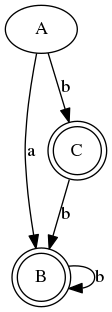
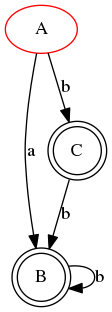
epsilon-determinisation

Changed region(s): [[0.0268, 0.0, 0.6161, 0.1731], [0.5357, 0.0288, 0.6964, 0.1442]]

diff --git a/Automate.py b/Automate.py
@@ -6,15 +6,19 @@ import graphviz
 class Automate:
 
 	def __init__(self, listeAlphabets, listeTransitions):
-		self.listeAlphabets = listeAlphabets
 		self.listeTransitions = listeTransitions
+		self.listeAlphabets = listeAlphabets
+		self.AFDListeAlphabets = []
+		self.AFMListeAlphabets = []
 		self.etatInitial = None
+		self.AFDEtatInitial = None
+		self.AFMEtatInitial =None
 		self.handlers = {}
 		self.AFDHandlers = {}
-		self.AFDEtatInitial = None
-		self.AFDListeAlphabets = []
+		self.AFMHandlers = {}
 		self.etatsFinaux = []
 		self.AFDEtatsFinaux = []
+		self.AFMEtatsFinaux = []
 	
 	def ajouterTransition(self, fromEtat, transition, toEtats):
 		if transition not in self.listeTransitions and fromEtat not in self.listeAlphabets:
@@ -142,7 +146,7 @@ class Automate:
 					if ss_elt in self.etatsFinaux:
 						self.AFDEtatsFinaux.append(chr(65+i))
 					elif ss_elt == self.etatInitial:
-						self.AFDEtatFinal = ss_elt
+						self.AFDEtatInitial = str(chr(65+i))
 				i = i+1
 			print("Le nouveau alphabet de l'AFD: {} ".format(self.AFDListeAlphabets))
 			print("le dicNewAlphabets de l'AFD : {} ".format(dictNewAlphabets))
@@ -164,8 +168,8 @@ class Automate:
 		for a in self.AFDListeAlphabets:
 			if a in self.AFDEtatsFinaux:
 				graphAFD.node(a, label=a, shape="doublecircle")
-			elif a == self.etatInitial:
-				graph.node(a, label=a, color="red")
+			elif a == self.AFDEtatInitial:
+				graphAFD.node(a, label=a, color="red")
 			else:
 				graphAFD.node(a)
 		for cle, valeur in self.AFDHandlers.items():
